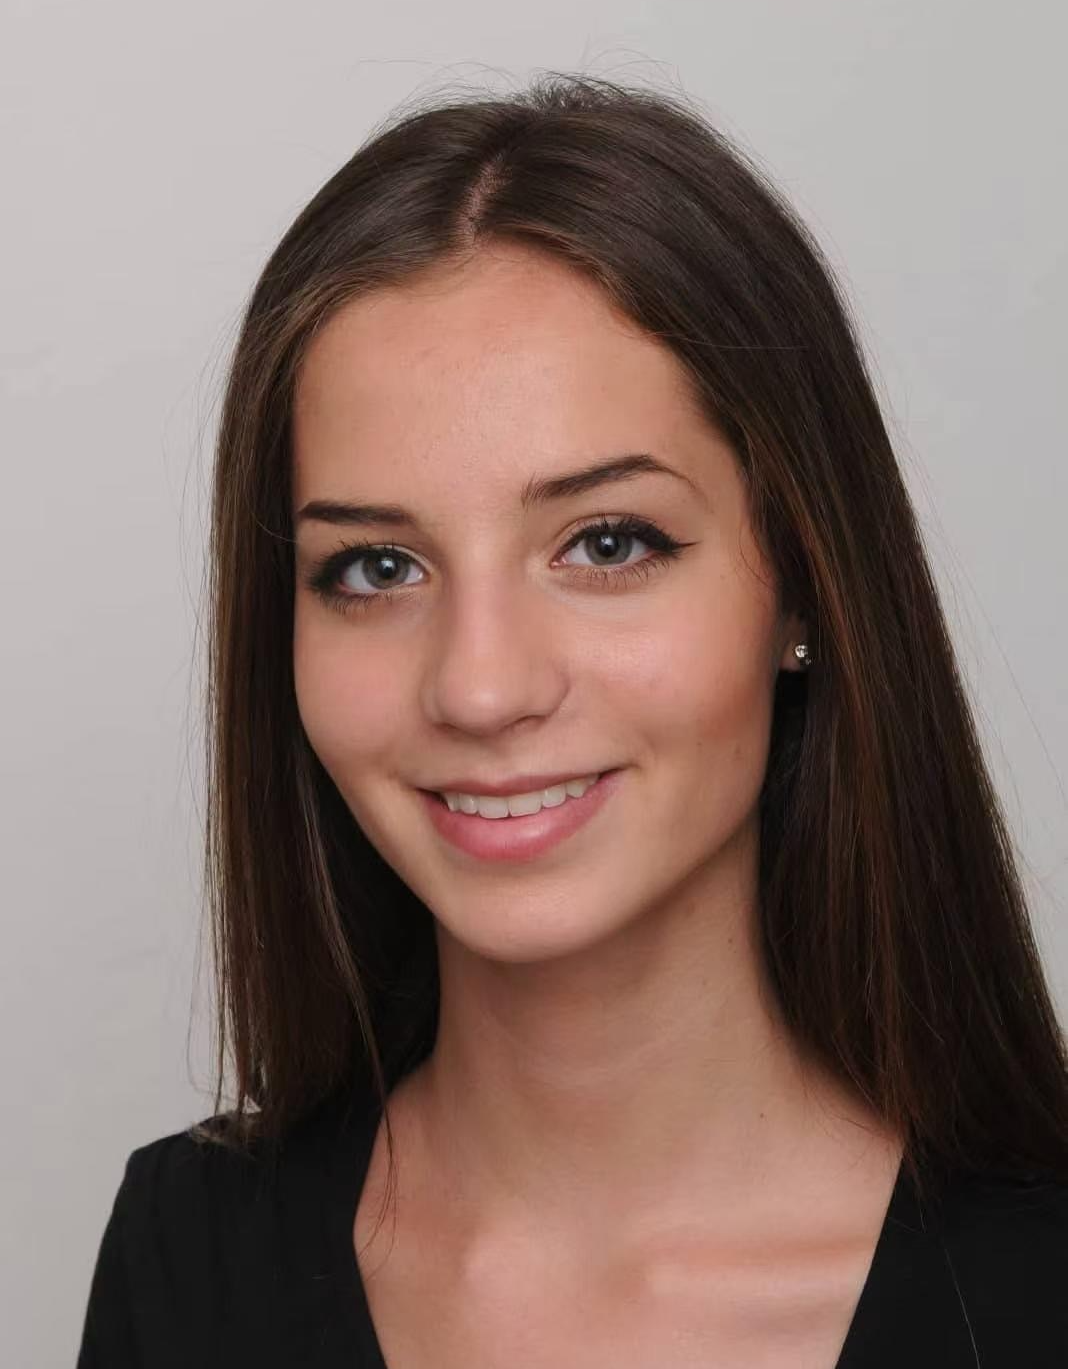
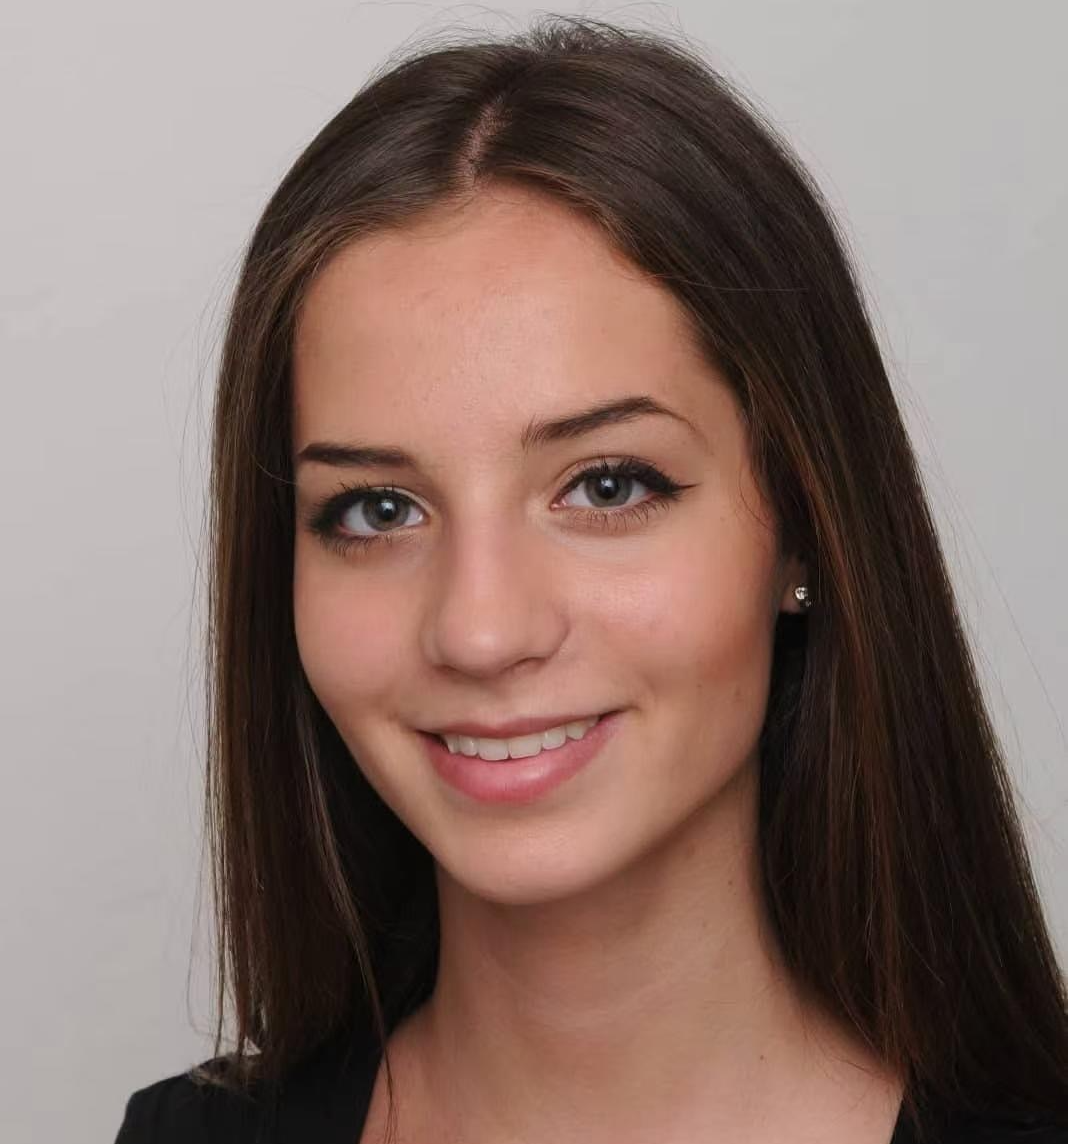
update

diff --git a/assets/js/data.js b/assets/js/data.js
@@ -126,7 +126,7 @@ window.LAB_DATA = {
         role: "Collaborating PhD · Newcastle University",
         interests: ["Skilled agents", "AI for finance"],
         image: "assets/img/linyan.jpg",
-        website: "https://yanlin-quinne.github.io/"
+        website: "https://scholar.google.co.uk/citations?hl=en&user=7skGGDUAAAAJ"
       },
       {
         name: "Yuyang Dai",
@@ -238,17 +238,17 @@ window.LAB_DATA = {
     },
   ],
   news: [
-     {
+    {
+      date: "2026-09-15",
+      category: "New Member",
+      title: "Donika officially joins us as a PhD visiting student!",
+      description: "Happy to welcome our new team member."
+    },
+    {
       date: "2026-09-08",
       category: "Paper",
       title: "Three papers accepted to AACL 2026: two main and one findings.",
       description: "Papers are related to harm-aware fairness evaluation, analyzing that empathy is not the scapegoat for factuality and safety declines and LLM Development for Urdu language."
-    },
-    {
-      date: "2026-09-01",
-      category: "New Member",
-      title: "Donika officially joins us as a PhD visiting student!",
-      description: "Happy to welcome our new team member."
     },
     {
       date: "2026-08-24",
